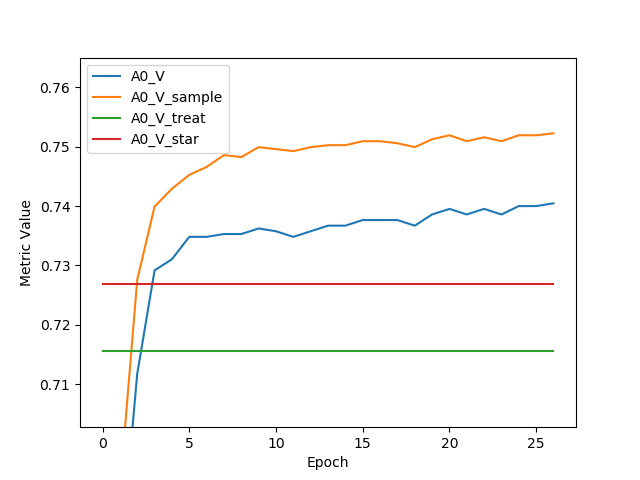
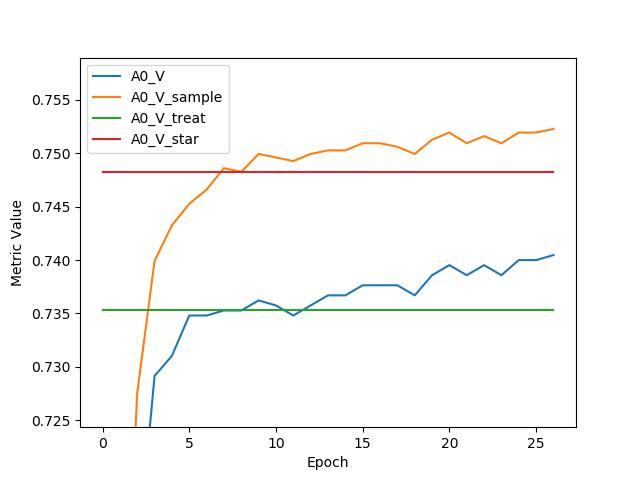
calculating bayes optimal treatments correctly now

diff --git a/src/dataproc/SynthDatasetCreator.py b/src/dataproc/SynthDatasetCreator.py
@@ -84,17 +84,24 @@ class BasicSynthDatasetCreator(SynthDatasetCreator):
         t_obs, t_obs_cf, t_obs_prob = self.choose_observed_treatment(x, a, z)
         y_factual = np.multiply(y0, 1 - t_obs) + np.multiply(y1, t_obs)
         y_counterfactual = np.multiply(y0, t_obs) + np.multiply(y1, 1 - t_obs)
-        bayes_opt_pred_f, bayes_opt_pred_cf = self.calculate_bayes_opt(y0_prob, y1_prob, t_obs, t_obs_cf)
-        return {'X': x, 'Y': np.concatenate([y0, y1], axis=1), 'A': a, 'y0': y0, 'y1': y1, \
+        bayes_opt_pred_f, bayes_opt_pred_cf, bayes_opt_trmt_by_num, bayes_opt_trmt_by_fcf = self.calculate_bayes_opt(y0_prob, y1_prob, t_obs, t_obs_cf)
+        y_prob_factual = np.multiply(y0_prob, 1 - t_obs) + np.multiply(y1_prob, t_obs)
+        y_prob_counterfactual = np.multiply(y0_prob, t_obs) + np.multiply(y1_prob, 1 - t_obs)
+        # hacky_bayes = bayes_opt_pred_f > bayes_opt_pred_cf
+        return {'X': x, 'Y': np.concatenate([y0, y1], axis=1), 'A': a, 'y0': y0, 'y1': y1, 
                 'T_f': t_obs, 'T_cf': t_obs_cf, 'Y_f': y_factual, 'Y_cf': y_counterfactual, 'Z': z, 
-                'bayes_f': bayes_opt_pred_f, 'bayes_cf': bayes_opt_pred_cf, 'T_prob': t_obs_prob}
+                'bayes_f': bayes_opt_pred_f, 'bayes_cf': bayes_opt_pred_cf, 'bayes_trmt': bayes_opt_trmt_by_fcf,
+                'bayes_trmt_num': bayes_opt_trmt_by_num, 'T_prob': t_obs_prob}
 
     def calculate_bayes_opt(self, y0_prob, y1_prob, t_obs, t_obs_cf):
         bayes_opt_pred_t0 = np.round(y0_prob)
         bayes_opt_pred_t1 = np.round(y1_prob)
         bayes_opt_pred_f = switch(bayes_opt_pred_t0, bayes_opt_pred_t1, t_obs)
         bayes_opt_pred_cf = switch(bayes_opt_pred_t0, bayes_opt_pred_t1, t_obs_cf)
-        return bayes_opt_pred_f, bayes_opt_pred_cf
+        bayes_opt_trmt_by_num = (y1_prob > y0_prob).astype(float)
+        bayes_opt_trmt_by_fcf = switch(y0_prob > y1_prob, y1_prob > y0_prob, t_obs)
+        # bayes_opt_trmt_by_fcf = switch(1 - bayes_opt_trmt_by_num, bayes_opt_trmt_by_num, np.equal(bayes_opt_trmt_by_num > 0.5, t_obs > 0.5))
+        return bayes_opt_pred_f, bayes_opt_pred_cf, bayes_opt_trmt_by_num, bayes_opt_trmt_by_fcf
 
     def choose_observed_treatment(self, x, a, z):
         t_obs_prob = np.expand_dims(sigmoid(np.mean(x, axis=1) / self.outcome_scale), 1) 

diff --git a/src/codebase/dataset.py b/src/codebase/dataset.py
@@ -20,9 +20,11 @@ class Dataset(object):
             self.dat = dat
             phases = ['train', 'valid', 'test']
             self.name_mapping = {'x': 'X', 'y_values': 'Y', 'a': 'A', 't_f': 'T_f', 't_cf': 'T_cf', 'y0': 'y0','y1': 'y1',  \
-                    'y_f': 'Y_f', 'y_cf': 'Y_cf', 'z': 'Z', 'bayes_f': 'bayes_f', 'bayes_cf': 'bayes_cf', 't_prob': 'T_prob', \
+                    'y_f': 'Y_f', 'y_cf': 'Y_cf', 'z': 'Z', 'bayes_f': 'bayes_f', 'bayes_cf': 'bayes_cf', 
+                    'bayes_trmt': 'bayes_trmt', 'bayes_trmt_num': 'bayes_trmt_num', 't_prob': 'T_prob', \
                             'x_unb': 'X_unb', 'y_values_unb': 'Y_unb', 'a_unb': 'A_unb', 't_f_unb': 'T_f_unb', 't_cf_unb': 'T_cf_unb', \
-                            'y_f_unb': 'Y_f_unb', 'y_cf_unb': 'Y_cf_unb', 'z_unb': 'Z_unb', 'bayes_f_unb': 'bayes_f_unb', 'bayes_cf_unb': 'bayes_cf_unb', \
+                            'y_f_unb': 'Y_f_unb', 'y_cf_unb': 'Y_cf_unb', 'z_unb': 'Z_unb', 'bayes_f_unb': 'bayes_f_unb', 
+                            'bayes_cf_unb': 'bayes_cf_unb', 'bayes_trmt_unb': 'bayes_trmt_unb', 'bayes_trmt_num_unb': 'bayes_trmt_num_unb',\
                             't_prob_unb': 'T_prob_unb'}
             self.tensors = {name: {phase: dat['{}_{}'.format(self.name_mapping[name], phase)] for phase in phases} for name in self.name_mapping}
             self.loaded = True

diff --git a/src/codebase/decompositions.py b/src/codebase/decompositions.py
@@ -27,10 +27,10 @@ def calculate_policy_values(D):
     trmt_sample = choose_treatment(D['unbiased']['cf_outcome_pred'], D['unbiased']['outcome_pred'])
     V_sample = calculate_value(trmt_sample, D['unbiased']['cf_outcome'], D['unbiased']['outcome'])
     #calculate value of optimal policy on observed sample
-    trmt_treat = choose_treatment(D['normal']['bayes_cf'], D['normal']['bayes_f'])
+    trmt_treat = D['normal']['bayes_trmt'] #choose_treatment(D['normal']['bayes_cf'], D['normal']['bayes_f'])
     V_treat = calculate_value(trmt_treat, D['normal']['cf_outcome'], D['normal']['outcome'])
     #calculate value of optimal policy on unbiased sample
-    trmt_star = choose_treatment(D['unbiased']['bayes_cf'], D['unbiased']['bayes_f'])
+    trmt_star = D['unbiased']['bayes_trmt'] #choose_treatment(D['unbiased']['bayes_cf'], D['unbiased']['bayes_f'])
     V_star = calculate_value(trmt_star, D['unbiased']['cf_outcome'], D['unbiased']['outcome'])
     return {'V': V,
             'V_sample': V_sample,

diff --git a/src/codebase/tracker.py b/src/codebase/tracker.py
@@ -37,7 +37,7 @@ class BinaryMLPTracker(Tracker):
 
 
     def _get_track_tensor_names(self):
-        return ['y_cf', 'bayes_f', 'bayes_cf', 't_prob']        
+        return ['y_cf', 'bayes_f', 'bayes_cf', 'bayes_trmt',  't_prob']        
 
 class BinaryCFMLPTracker(Tracker):
 
@@ -64,7 +64,7 @@ class BinaryCFMLPTracker(Tracker):
         return metrics
 
     def _get_track_tensor_names(self):
-        return ['y_cf', 'bayes_f', 'bayes_cf', 't_prob']        
+        return ['y_cf', 'bayes_f', 'bayes_cf', 'bayes_trmt', 't_prob']        
 
 
     

diff --git a/src/get_basic_dataset_stats.py b/src/get_basic_dataset_stats.py
@@ -26,3 +26,7 @@ for tnm in tensor_names:
     print('Avg {} (A = 1): {:.3f}'.format(tnm, res))
     res = subgroup(np.mean, 1 - dat.tensors['a']['train'], [dat.tensors[tnm]['train']]) 
     print('Avg {} (A = 0): {:.3f}'.format(tnm, res))
+
+# for phase in ['train', 'valid', 'test']:
+#     bayes_acc = np.mean(np.equal(dat.tensors['bayes_f'][phase], dat.tensors['y_f'][phase]))
+#     print('{} Bayes Acc: {:.3f}'.format(phase, bayes_acc))
